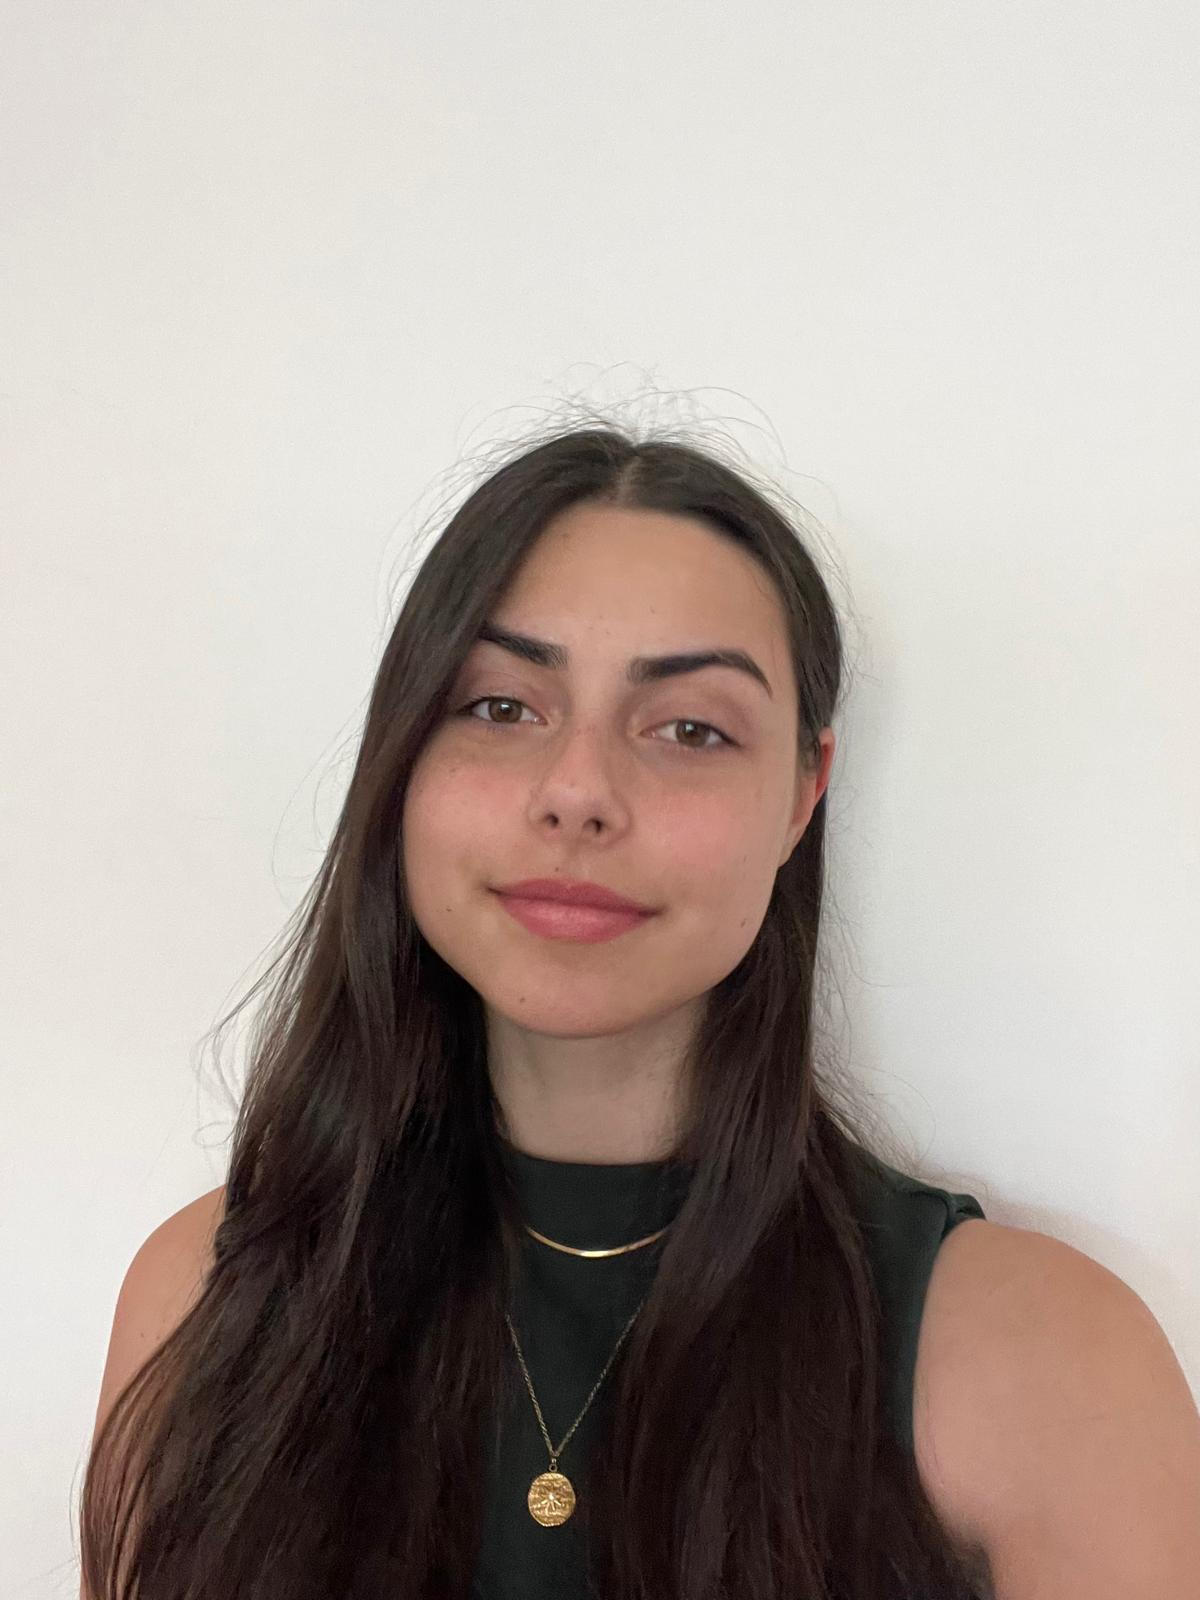
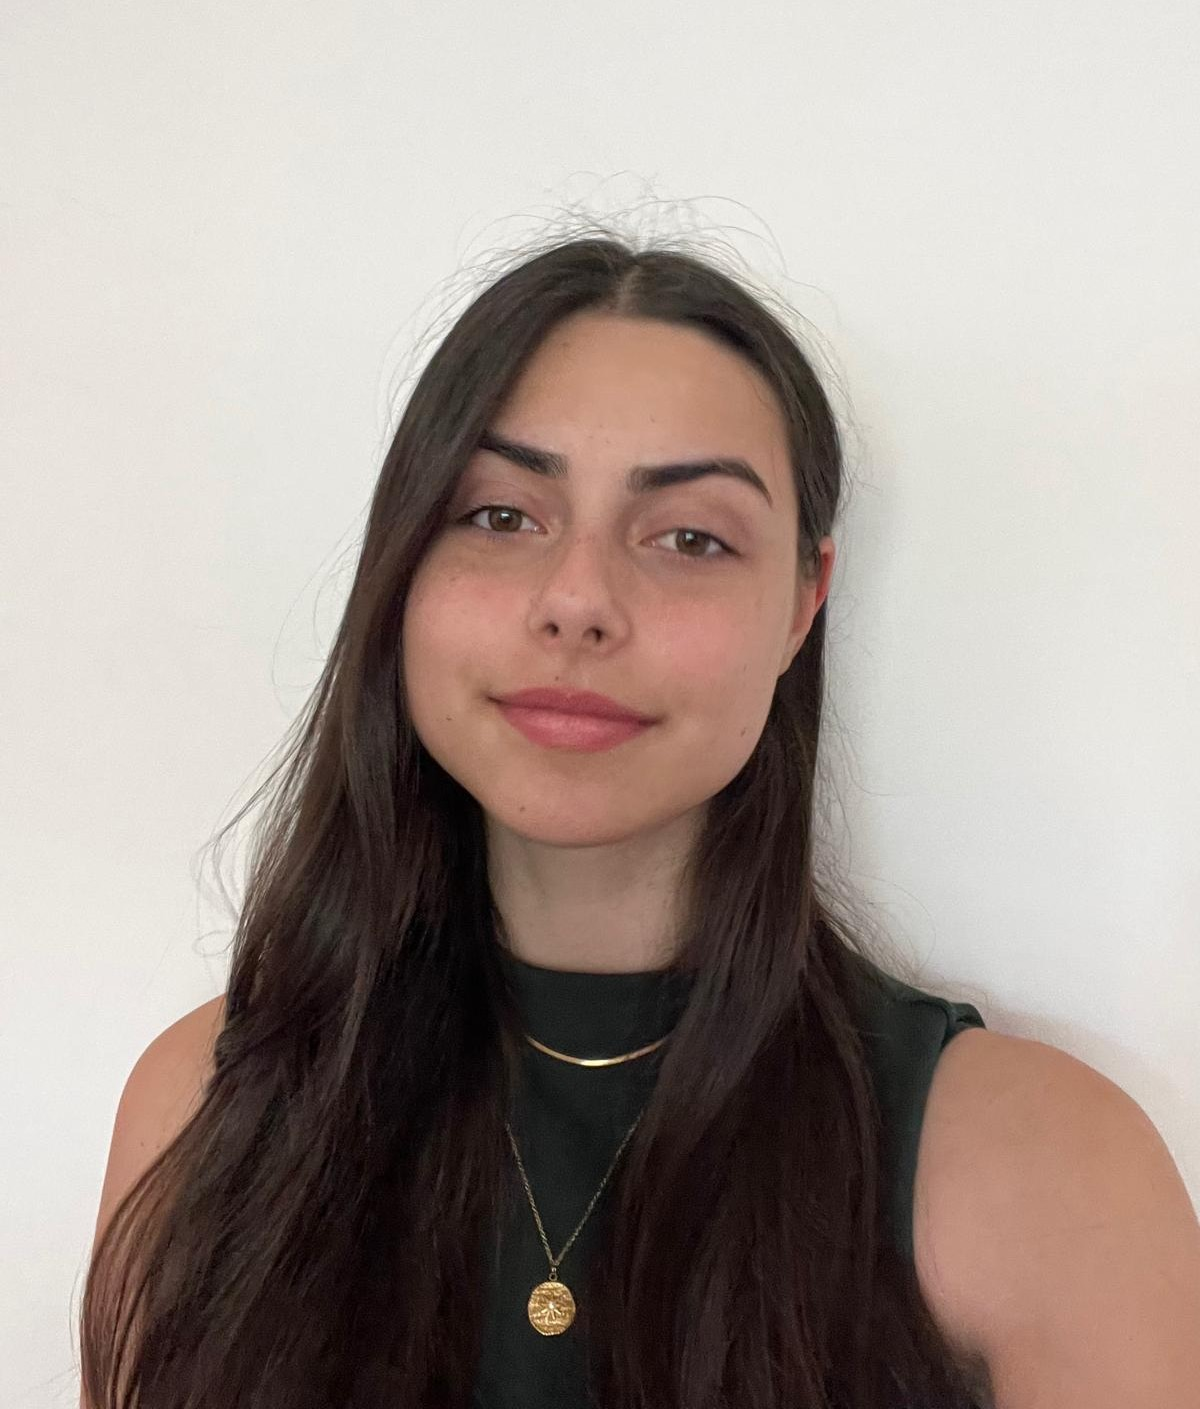
secçoes mag e cf adicionadas

diff --git a/index-pt.html b/index-pt.html
@@ -283,6 +283,66 @@
                     </div>
                 </div>
             </div>
+            <h2>Mesa da Assembleia Geral</h2>
+            <div class="member-images">
+                <div id="member-11" class="member">
+                    <div class="member-name">
+                        <p>Leonor Costa</p>
+                        <p>Secretária</p>
+                        <div>
+                            <a href="https://www.linkedin.com/" target="_blank" rel="external"><img src="icons/linkedin.png" alt="LinkedIn icon"></a>
+                        </div>
+                    </div>
+                </div>
+                <div id="member-12" class="member">
+                    <div class="member-name">
+                        <p>Carlota Carneiro</p>
+                        <p>Presidente</p>
+                        <div>
+                            <a href="https://www.linkedin.com/" target="_blank" rel="external"><img src="icons/linkedin.png" alt="LinkedIn icon"></a>
+                        </div>
+                    </div>
+                </div>
+                <div id="member-13" class="member">
+                    <div class="member-name">
+                        <p>Margarida Alves</p>
+                        <p>Vice-President</p>
+                        <div>
+                            <a href="https://www.linkedin.com/" target="_blank" rel="external"><img src="icons/linkedin.png" alt="LinkedIn icon"></a>
+                        </div>
+                    </div>
+                </div>
+            </div>
+            <h2>Conselho Fiscal</h2>
+            <div class="member-images">
+                <div id="member-14" class="member">
+                    <div class="member-name">
+                        <p>Mariana Bessa</p>
+                        <p>1º Secretária</p>
+                        <div>
+                            <a href="https://www.linkedin.com/" target="_blank" rel="external"><img src="icons/linkedin.png" alt="LinkedIn icon"></a>
+                        </div>
+                    </div>
+                </div>
+                <div id="member-15" class="member">
+                    <div class="member-name">
+                        <p>Sara Alves</p>
+                        <p>Presidente</p>
+                        <div>
+                            <a href="https://www.linkedin.com/" target="_blank" rel="external"><img src="icons/linkedin.png" alt="LinkedIn icon"></a>
+                        </div>
+                    </div>
+                </div>
+                <div id="member-16" class="member">
+                    <div class="member-name">
+                        <p>Lucas Palma</p>
+                        <p>2º Secretária</p>
+                        <div>
+                            <a href="https://www.linkedin.com/in/lucas-palma-0986a0146/" target="_blank" rel="external"><img src="icons/linkedin.png" alt="LinkedIn icon"></a>
+                        </div>
+                    </div>
+                </div>
+            </div>
         </section>
 
         <section id="competitions">

diff --git a/index.html b/index.html
@@ -279,6 +279,66 @@
                     </div>
                 </div>
             </div>
+            <h2>General Assembly Board</h2>
+            <div class="member-images">
+                <div id="member-11" class="member">
+                    <div class="member-name">
+                        <p>Leonor Costa</p>
+                        <p>Secretary</p>
+                        <div>
+                            <a href="https://www.linkedin.com/" target="_blank" rel="external"><img src="icons/linkedin.png" alt="LinkedIn icon"></a>
+                        </div>
+                    </div>
+                </div>
+                <div id="member-12" class="member">
+                    <div class="member-name">
+                        <p>Carlota Carneiro</p>
+                        <p>President</p>
+                        <div>
+                            <a href="https://www.linkedin.com/" target="_blank" rel="external"><img src="icons/linkedin.png" alt="LinkedIn icon"></a>
+                        </div>
+                    </div>
+                </div>
+                <div id="member-13" class="member">
+                    <div class="member-name">
+                        <p>Margarida Alves</p>
+                        <p>Vice-President</p>
+                        <div>
+                            <a href="https://www.linkedin.com/" target="_blank" rel="external"><img src="icons/linkedin.png" alt="LinkedIn icon"></a>
+                        </div>
+                    </div>
+                </div>
+            </div>
+            <h2>Fiscal Council</h2>
+            <div class="member-images">
+                <div id="member-14" class="member">
+                    <div class="member-name">
+                        <p>Mariana Bessa</p>
+                        <p>1st Secretary</p>
+                        <div>
+                            <a href="https://www.linkedin.com/" target="_blank" rel="external"><img src="icons/linkedin.png" alt="LinkedIn icon"></a>
+                        </div>
+                    </div>
+                </div>
+                <div id="member-15" class="member">
+                    <div class="member-name">
+                        <p>Sara Alves</p>
+                        <p>President</p>
+                        <div>
+                            <a href="https://www.linkedin.com/" target="_blank" rel="external"><img src="icons/linkedin.png" alt="LinkedIn icon"></a>
+                        </div>
+                    </div>
+                </div>
+                <div id="member-16" class="member">
+                    <div class="member-name">
+                        <p>Lucas Palma</p>
+                        <p>2nd Secretary</p>
+                        <div>
+                            <a href="https://www.linkedin.com/in/lucas-palma-0986a0146/" target="_blank" rel="external"><img src="icons/linkedin.png" alt="LinkedIn icon"></a>
+                        </div>
+                    </div>
+                </div>
+            </div>
         </section>
 
         <section id="competitions">

diff --git a/style-v2.css b/style-v2.css
@@ -743,6 +743,30 @@ header div.find-out-more a {
 #meet-our-members #member-10 {
     background-image: url('img/members/Balsamico.jpeg');
 }
+#meet-our-members #member-11 {
+    background-image: url('img/members/Leonor.jpeg');
+    background-position-y: -20px;
+}
+#meet-our-members #member-12 {
+    background-image: url('img/members/Carlota.jpeg');
+    background-position-y: -5px;
+}
+#meet-our-members #member-13 {
+    background-image: url('img/members/MaGui.jpeg');
+    background-position-y: 0px;
+    background-repeat: no-repeat;
+}
+#meet-our-members #member-14 {
+    background-image: url('img/members/Bessa.jpeg');
+}
+#meet-our-members #member-15 {
+    background-image: url('img/members/SaraAlves.jpeg');
+    background-position-y: 0px;
+}
+#meet-our-members #member-16 {
+    background-image: url('img/members/Lucas.jpeg');
+}
+
 
 /* Responsive adjustments */
 @media (max-width: 800px) {
